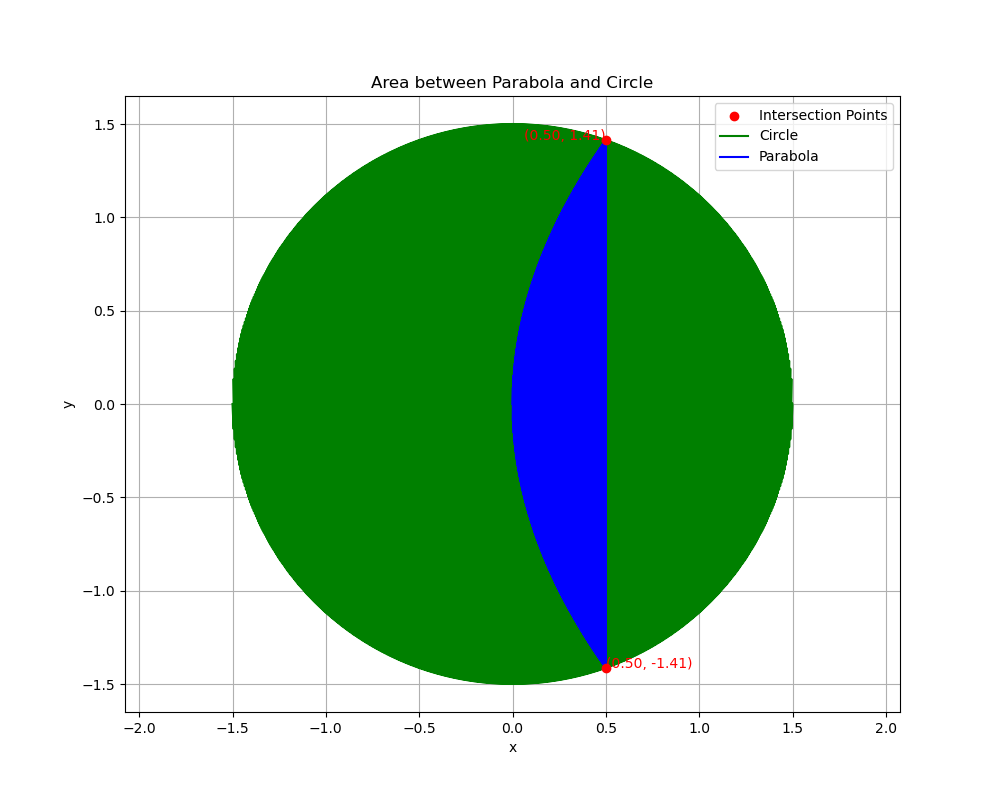
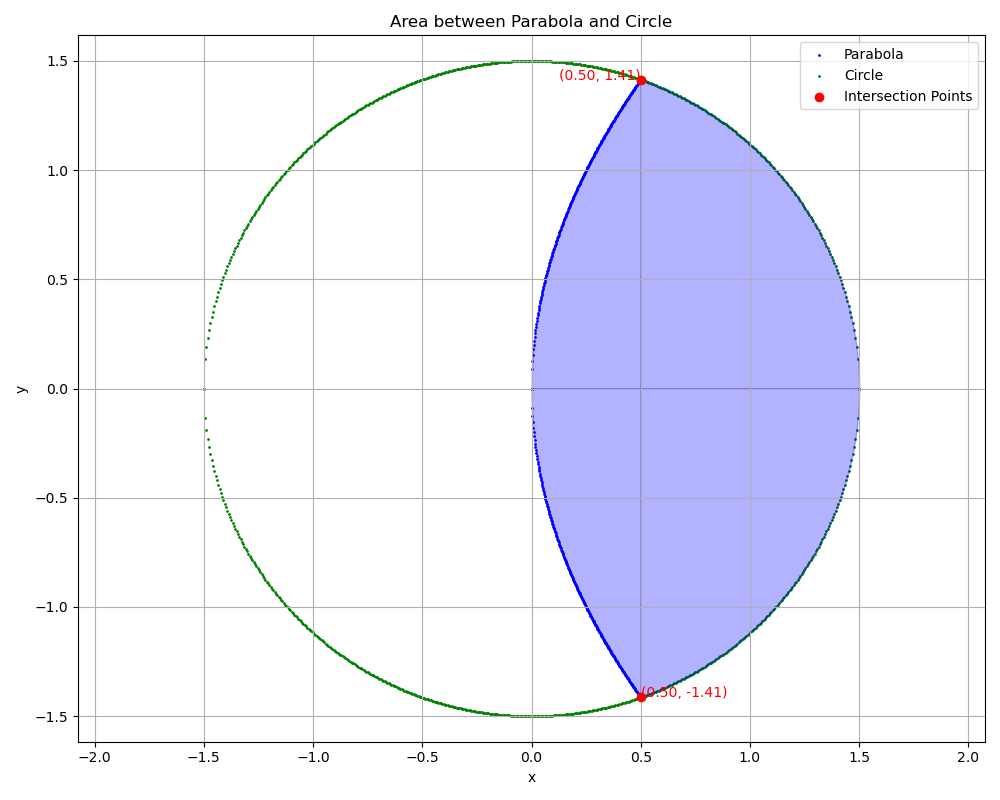
update

diff --git a/matgeo12/codes/area.py b/matgeo12/codes/area.py
@@ -19,7 +19,7 @@ k = 0.0  # y-coordinate of the circle center
 r = 1.5  # Radius of the circle
 x_start = 0.0
 x_mid = 0.5
-x_end = 1.0
+x_end = 1.5
 # Number of rectangles for the Riemann sum
 n = 1000
 
@@ -46,8 +46,30 @@ y_parabola = data[:502, 1]
 x_circle = data[502:1506, 0]
 y_circle = data[502:1506, 1]
 
-# Plotting the points from coordinates.txt
+# Create a single plot
 plt.figure(figsize=(10, 8))
+
+# Plot parabola points
+plt.scatter(x_parabola, y_parabola, label='Parabola', color='blue', s=1)  # s=1 for small points
+# Plot circle points
+plt.scatter(x_circle, y_circle, label='Circle', color='green', s=1)  # s=1 for small points
+
+# Define the range for shading the area above the parabola
+x_parabola_fill = np.linspace(0, 0.5, 1000)
+y_parabola_fill = np.sqrt(4 * p * x_parabola_fill)
+
+# Shade the area above the parabola from x=0 to x=0.5
+plt.fill_between(x_parabola_fill, y_parabola_fill, color='blue', alpha=0.3)
+plt.fill_between(x_parabola_fill, -y_parabola_fill, color='blue', alpha=0.3)
+
+# Define the range for shading the area below the circle
+x_circle_fill = np.linspace(0.5, 1.5, 1000)
+y_circle_fill_upper = k + np.sqrt(r**2 - (x_circle_fill - h)**2)
+y_circle_fill_lower = k - np.sqrt(r**2 - (x_circle_fill - h)**2)
+
+# Shade the area above the circle from x=0.5 to x=1.5
+plt.fill_between(x_circle_fill, y_circle_fill_upper, color='blue', alpha=0.3)
+plt.fill_between(x_circle_fill, y_circle_fill_lower, color='blue', alpha=0.3)
 
 # Plot intersection points
 plt.scatter([x1_intersection, x2_intersection], [y1_intersection, y2_intersection],
@@ -55,19 +77,17 @@ plt.scatter([x1_intersection, x2_intersection], [y1_intersection, y2_intersectio
 plt.text(x1_intersection, y1_intersection, f'({x1_intersection:.2f}, {y1_intersection:.2f})', fontsize=10, color='red', ha='right')
 plt.text(x2_intersection, y2_intersection, f'({x2_intersection:.2f}, {y2_intersection:.2f})', fontsize=10, color='red', ha='left')
 
-# Plot circle points as a line without shading
-plt.plot(x_circle, y_circle, label='Circle', color='green')
-# Plot parabola points as a line
-plt.plot(x_parabola, y_parabola, label='Parabola', color='blue')
-
 # Labels and legend
 plt.xlabel('x')
 plt.ylabel('y')
 plt.title('Area between Parabola and Circle')
 plt.legend()
 
-# Show the plot
+# Ensure equal aspect ratio for accurate representation
+plt.axis('equal')
 plt.grid(True)
-plt.axis('equal')  # Ensure the aspect ratio is equal for accurate representation
+
+# Show the plot
+plt.tight_layout()
 plt.show()
 

diff --git a/matgeo12/a2_11.tex b/matgeo12/a2_11.tex
@@ -105,9 +105,9 @@ Therefore, the points of intersection are
    \end{align}
 The required area is
 \begin{align}
-    2\brak{\int_{0}^{\frac{1}{2}}2\sqrt{x}dx + \int_{\frac{1}{2}}^{1}\sqrt{\frac{9}{4} - x^2}dx} \\
-    2\brak{\sbrak{\frac{4x^{\frac{3}{2}}}{3}}_0^{\frac{1}{2}} + \sbrak{\frac{x}{2}\sqrt{\frac{9}{4} - x^2} + \frac{9}{8}\sin^{-1}{\brak{\frac{2x}{3}}}}_{\frac{1}{2}}^1} \\
-    \frac{2\sqrt{2}}{3} + \frac{\sqrt{5}}{2} + \frac{9}{4}\sin^{-1}\brak{\frac{2}{3}} - \frac{1}{\sqrt{2}} - \frac{9}{4}\sin^{-1}\brak{\frac{1}{3}}
+	2\brak{\int_{0}^{\frac{1}{2}}2\sqrt{x}dx + \int_{\frac{1}{2}}^{\frac{3}{2}}\sqrt{\frac{9}{4} - x^2}dx} \\
+	2\brak{\sbrak{\frac{4x^{\frac{3}{2}}}{3}}_0^{\frac{1}{2}} + \sbrak{\frac{x}{2}\sqrt{\frac{9}{4} - x^2} + \frac{9}{8}\sin^{-1}{\brak{\frac{2x}{3}}}}_{\frac{1}{2}}^\frac{3}{2}} \\
+    \frac{2\sqrt{2}}{3} + \frac{9\pi}{8} - \frac{1}{\sqrt{2}} - \frac{9}{4}\sin^{-1}\brak{\frac{1}{3}}
 \end{align}
 \begin{figure}[h!]
    \centering

diff --git a/matgeo12/codes/main.c b/matgeo12/codes/main.c
@@ -96,7 +96,7 @@ int main() {
     // Define the interval of interest
     double x_start = 0.0;  // Start of parabola
     double x_mid = 0.5;    // Intersection point
-    double x_end = 1.0;    // End of circle
+    double x_end = 1.5;    // End of circle
 
     // Number of sub-intervals for the Riemann sum
     int n = 1000;
